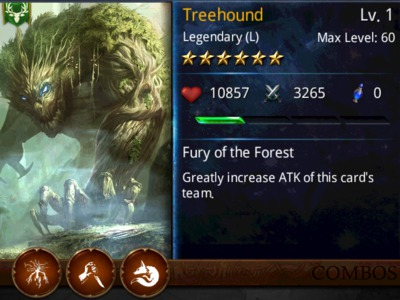
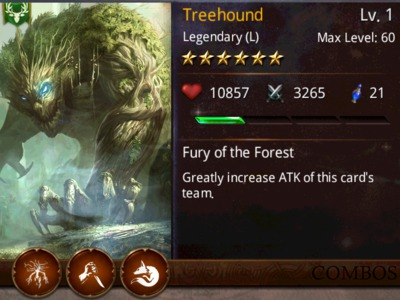
Update a few cards' mana

diff --git a/cards.js b/cards.js
@@ -50,7 +50,7 @@ var cards = [
   new Card("Diviner", "Camelot", 2, 7, 20, 2400, 585, []),
   new Card("Doomweaver", "Druid", 3, 11, 30, 4254, 1320, ["Giant Insects",]),
   new Card("Dragon Knight", "Camelot", 4, "", 40, 4785, 1548, ["Dragon's Blood",]),
-  new Card("Druantia", "Druid", 6, "", 60, 11336, 3415, ["Woodland Deities","Nature Magic","Immortals","Wise Sages",]),
+  new Card("Druantia", "Druid", 6, 20, 60, 11336, 3415, ["Woodland Deities","Nature Magic","Immortals","Wise Sages",]),
   new Card("Druid Initiate", "Druid", 1, 3, 10, 765, 245, ["Noobs",]),
   new Card("Druid Marksman", "Druid", 1, 6, 10, 1680, 518, ["Marksmen","Druid Warriors",]),
   new Card("Druid Sage", "Druid", 1, 5, 10, 1375, 425, []),
@@ -78,7 +78,7 @@ var cards = [
   new Card("Giant Eagle", "Camelot", 3, 7, 30, 2860, 707, ["Heroic Beasts",]),
   new Card("Grail Knight", "Camelot", 3, 9, 30, 4060, 880, ["Gods and Heroes","Questing Knight","Blessed Knight Rider","Knight Warband","Hero Trifecta",]),
   new Card("Gravebane", "Demon", 5, "", 50, 8265, 2346, ["Bone Spirit","Undead Party","Burning Wrath",]),
-  new Card("Green Knight", "Camelot", 6, "", 60, 11240, 2640, ["Enigmatic Knights","Cold Killers","Cunning Foes","Shining Armor","Crack Knights",]),
+  new Card("Green Knight", "Camelot", 6, 20, 60, 11240, 2640, ["Enigmatic Knights","Cold Killers","Cunning Foes","Shining Armor","Crack Knights",]),
   new Card("Grillmaster", "Camelot", 4, 11, 40, 4734, 1491, ["Patriots",]),
   new Card("Gryphon", "Camelot", 4, 10, 40, 4686, 1138, ["Hybrid Beasts",]),
   new Card("Guardian Angel", "Camelot", 5, 13, 50, 6600, 1550, ["Divine Intervention","Celestials","Blessed Knight Rider","Blessed Stag Rider","Merciful Angels",]),
@@ -90,7 +90,7 @@ var cards = [
   new Card("Hunter", "Camelot", 1, 5, 10, 1500, 360, []),
   new Card("Huscarl", "Camelot", 4, 15, 50, 4785, 1780, ["Mercenaries","Hired Steel",]),
   new Card("Ice Mage", "Camelot", 3, 9, 30, 3766, 910, ["Magicians","Frozen Terrors","Thunder's Fury",]),
-  new Card("Ironbark Overlord", "Druid", 6, "", 50, 10306, 3105, ["Living Forest","Unstoppable Force",]),
+  new Card("Ironbark Overlord", "Druid", 6, 20, 50, 10306, 3105, ["Living Forest","Unstoppable Force",]),
   new Card("Jezebel the Fair", "Camelot", 5, 14, 50, 7036, 1694, ["Fallen Heroes",]),
   new Card("Jezebel the Shriek", "Demon", 5, "", 50, 10306, 3105, ["Dark Arts","Corrupted","Aerial Doom","Beyond Redemption","League of the Damned",]),
   new Card("Karn", "Demon", 5, "", 50, 7025, 2213, ["Bone Spirit","Undead Party","Necro Party",]),
@@ -114,7 +114,7 @@ var cards = [
   new Card("Merla the Lidless", "Druid", 5, "", 50, 7440, 2312, ["Umbral Spirits","Premeditation",]),
   new Card("Merlin's Dragon", "Camelot", 5, 16, 50, 8065, 1944, ["Fire Breathing","Epic Serpents","Dragon's Blood",]),
   new Card("Mhor the Wyrm", "Druid", 5, 15, 50, 6933, 2130, ["Thick Hides","Epic Serpents","Titans","Wyrm Duo","Unstoppable Force","Goliaths",]),
-  new Card("Mist Stalker", "Druid", 5, "", 50, 7885, 2408, ["Cold Killers","Hooded Terrors","Killers for Hire","Assassin's Alliance",]),
+  new Card("Mist Stalker", "Druid", 5, 17, 50, 7885, 2408, ["Cold Killers","Hooded Terrors","Killers for Hire","Assassin's Alliance",]),
   new Card("Modron", "Demon", 5, "", 50, 4731, 1871, ["Monster Mash",]),
   new Card("Morbius the Cursed", "Demon", 5, "", 50, 5878, 1843, ["Relentless Evil","Unholy Strength","Bone Spirit","Undead Party","Beyond Redemption","League of the Damned",]),
   new Card("Moria", "Camelot", 5, "", 50, 8013, 2654, ["Augmented Arms","Pet Familiars",]),
@@ -129,7 +129,7 @@ var cards = [
   new Card("Pestilence", "Demon", 5, 23, 50, 9877, 2524, ["Four Horsemen","Toxic Death","Body Count",]),
   new Card("Phantom Panther", "Druid", 4, "", 40, 5200, 1711, ["On the Hunt","Feral Pack",]),
   new Card("Pikeman", "Camelot", 2, 5, 20, 1700, 415, ["Soldiers",]),
-  new Card("Primal Rider", "Druid", 5, "", 50, 7392, 2436, ["Druid Elite","Heavy Cavalry","Savage Elite",]),
+  new Card("Primal Rider", "Druid", 5, 15, 50, 7392, 2436, ["Druid Elite","Heavy Cavalry","Savage Elite",]),
   new Card("Primal Warrior", "Druid", 3, 9, 30, 3432, 1081, ["Gods and Heroes","Blessed Stag Rider","Druid Warband","Druid Beats",]),
   new Card("Psycho Butterfly", "Druid", 4, 11, 40, 4748, 1480, ["Giant Insects",]),
   new Card("Quillbeast", "Druid", 2, 6, 20, 1890, 590, []),
@@ -161,7 +161,7 @@ var cards = [
   new Card("Totem Guard", "Druid", 6, "", 60, 10857, 3265, ["Druid Elite","Brute Force","King Size Weapons","Enchanted Weapons","Final Stand","Champions",]),
   new Card("Toymaker", "Camelot", 4, "", 40, 4320, 1368, ["Polar",]),
   new Card("Trahern", "Demon", 4, "", 40, 6124, 1973, ["Monster Mash",]),
-  new Card("Treehound", "Druid", 6, "", 50, 10857, 3265, ["Living Forest","Cold Killers","Cunning Foes",]),
+  new Card("Treehound", "Druid", 6, 21, 50, 10857, 3265, ["Living Forest","Cold Killers","Cunning Foes",]),
   new Card("Treekin", "Druid", 5, "", 50, 7885, 2408, ["Nature's Wrath","Living Forest",]),
   new Card("Treekin Shaman", "Druid", 5, "", 50, 8065, 1944, ["Living Forest","Theurgists","Nature Magic",]),
   new Card("Ulster Knight", "Camelot", 4, "", 40, 5670, 1370, ["Mercenaries","Hired Steel",]),

diff --git a/index.html b/index.html
@@ -465,7 +465,7 @@
             <th>Image</th>
           </tr>
         </thead>
-        <tr ng-repeat="combo in my_combos()">
+        <tr ng-repeat="combo in my_combos() | filter:search">
           <td><a href="/combo/{{combo.name}}">{{combo.name}}</a></td>
           <td>{{combo.description}}</td>
           <td>
